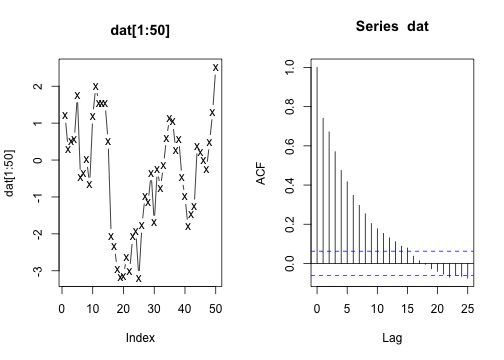
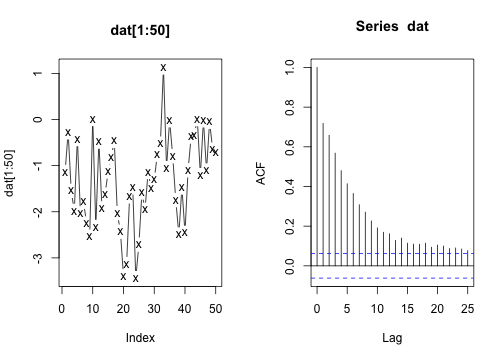
update

diff --git a/ARMA-Models.html b/ARMA-Models.html
@@ -247,7 +247,7 @@ $(document).ready(function () {
 <li><p>Lab 2 Test the Greek catch data for stationarity <a href="ARMA%20Lab%202%20Stationarity.html">ARMA Lab 2 Stationarity</a> - <a href="Labs/ARMA%20Lab%202%20Stationarity.Rmd">Rmd file</a></p></li>
 <li><p>Lecture 3 <a href="Forecasting_3-3_-_ARMA_Model_Structure.html">Selecting Model Structure</a></p></li>
 <li><p>Lecture 4 <a href="Forecasting_3-4_-_ARMA_Fitting_Models.html">Fitting ARMA Models</a></p></li>
-<li><p>Lab 3 Fit ARMA Models to the Greek catch data <a href="ARMA%20Lab%203%20Fitting.html">ARMA Lab 3 Fitting</a> - <a href="Labs/ARMA%20Lab%203%20Fitting.Rmd">Rmd file</a> - <a href="Labs/R/Forecasting%203-5%20-%20ARMA%20Fitting%20Models.R">R Code</a></p></li>
+<li><p>Lab 3 Fit ARMA Models to the Greek catch data <a href="ARMA%20Lab%203%20Fitting.html">ARMA Lab 3 Fitting</a> - <a href="Labs/ARMA%20Lab%203%20Fitting.Rmd">Rmd file</a> - <a href="Labs/R/Forecasting%203-4%20-%20ARMA%20Fitting%20Models.R">R Code</a></p></li>
 <li><p>Lecture 5 <a href="Forecasting_3-5_-_ARMA_Forecasting.html">Forecasting from ARMA Models</a></p></li>
 <li><p>Lab 4 Create your own forecasts <a href="Labs/R/Forecasting%203-5%20-%20ARMA%20Forecasting.R">R Code</a></p></li>
 <li><p>Lecture 6 <a href="Forecasting_3-6_-_ARMA_Performance.html">Cross Validation</a></p></li>

diff --git a/Forecasting_3-1_-_ARMA_Intro.html b/Forecasting_3-1_-_ARMA_Intro.html
@@ -109,7 +109,7 @@ cor(dat[2:TT], dat[1:(TT-1)])
 ```
 
 ```
-## [1] 0.7409398
+## [1] 0.7182895
 ```
 
 ```r
@@ -117,7 +117,7 @@ cor(dat[11:TT], dat[1:(TT-10)])
 ```
 
 ```
-## [1] 0.1774004
+## [1] 0.1932088
 ```
 
 &lt;img src="Forecasting_3-1_-_ARMA_Intro_files/figure-html/acf2-1.png" style="display: block; margin: auto;" /&gt;

diff --git a/Forecasting_2_-_TV_Regression.html b/Forecasting_2_-_TV_Regression.html
@@ -137,7 +137,7 @@ Box.test(rnorm(100), type="Ljung-Box")
 ## 	Box-Ljung test
 ## 
 ## data:  rnorm(100)
-## X-squared = 0.18031, df = 1, p-value = 0.6711
+## X-squared = 0.70454, df = 1, p-value = 0.4013
 ```
 
 The null hypothesis is not rejected.  These are not serially correlated.
